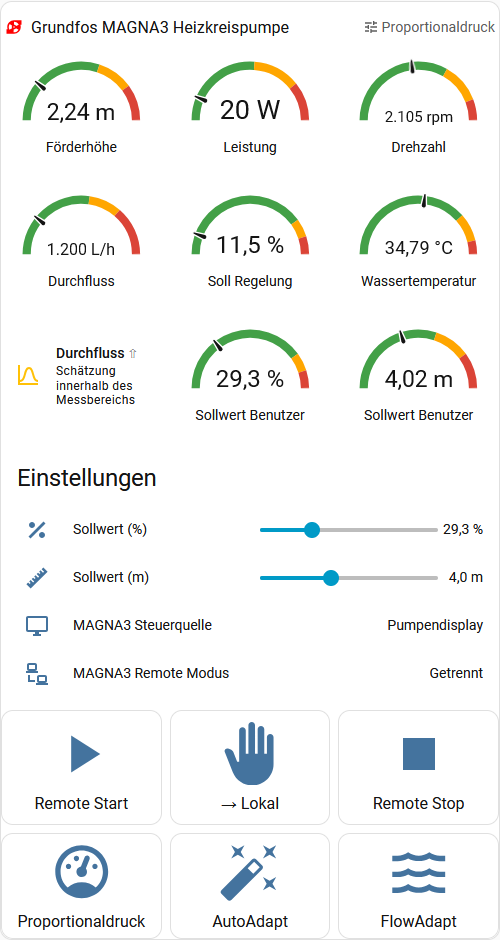
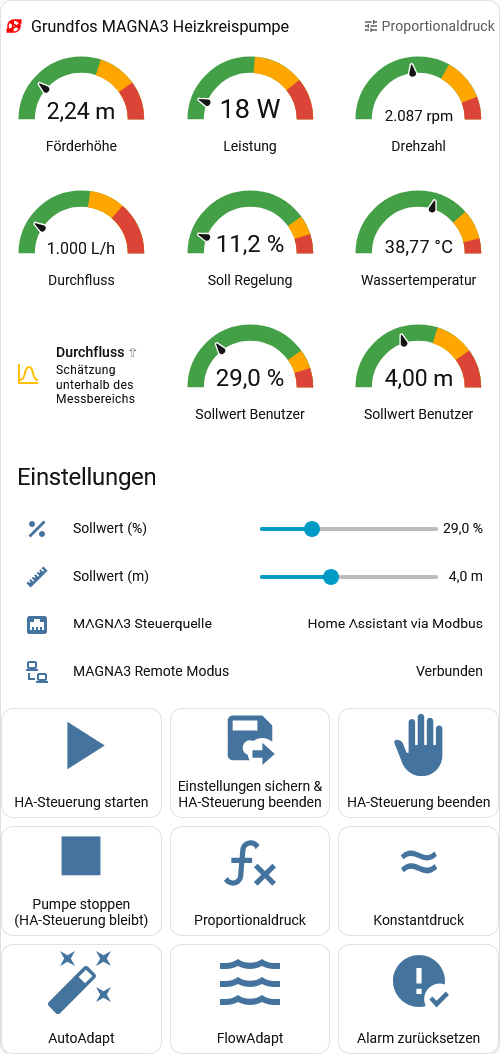
v4.1: CopyToLocal two-step fix + notification cleanup
- magna3_to_local_copy: switched from single atomic write to two-step
  (write 19, wait 500ms, write 16). Single-write proved unreliable on real
  MAGNA3 firmware; two-step gives the pump time to register CopyToLocal
  as armed before the Remote->Local edge
- Control source text "Modbus/TCP" -> "Home Assistant via Modbus/TCP"
- Removed per-click persistent_notification.create from 8 control scripts
  (Start, Stop, Local, Proportional, Constant Pressure, AutoAdapt,
  FlowAdapt, Set Max Flow Limit) - button click is feedback enough
- Added confirmation notification to magna3_reset_alarm
- Kept notification in magna3_to_local_copy (EEPROM save is invisible)
- Renamed automation magna3_watchdog_alarm -> magna3_forced_to_local_detected
  (entity_id change). Old name promised a Modbus watchdog but actually
  fired on every user-initiated local switch. Now triggers on
  binary_sensor.magna3_forced_to_local (Reg 00201 bit 12)
- New automation magna3_warning_notification: fires on Reg 00201 bit 11
  (orange LED), shows warning code from Reg 00206
- Updated dashboard screenshot to reflect new buttons and labels

diff --git a/CHANGELOG.de.md b/CHANGELOG.de.md
@@ -1,5 +1,16 @@
 # Changelog
 
+## v4.1 (2026-05-11)
+
+- **CopyToLocal-Fix funktioniert jetzt wirklich**: `magna3_to_local_copy` umgestellt vom Single-Write (3 → 16) auf die zweistufige Variante (Write 19, 500 ms Pause, Write 16). Reale MAGNA3-Firmware hat CopyToLocal nicht zuverlässig im selben Polling-Zyklus wie die Bit-0-Flanke als aktiv erkannt, dadurch ist das EEPROM-Speichern stillschweigend ausgefallen. Mit der zweistufigen Variante hat die Pumpe Zeit, das vorbereitete Flag wahrzunehmen, bevor die Remote→Local-Flanke kommt
+- Steuerquellen-Text „Modbus/TCP" → „Home Assistant via Modbus/TCP" (klarer in der Entities-Karte)
+- `persistent_notification.create` aus 8 Steuerungs-Scripts entfernt (Start, Stop, → Lokal, Proportionaldruck, Konstantdruck, AutoAdapt, FlowAdapt, Max-Durchfluss setzen) — der Button-Klick ist Feedback genug, vorher wurde das Notification-Drawer mit jedem Klick zugespammt
+- Bestätigungs-Notification zu `magna3_reset_alarm` hinzugefügt (selten benutzt, Nebenwirkungen rechtfertigen Bestätigung)
+- Notification in `magna3_to_local_copy` beibehalten (EEPROM-Speichern wäre sonst unsichtbar)
+- **Automation umbenannt** `magna3_watchdog_alarm` → `magna3_forced_to_local_detected` (entity_id ändert sich; alte Entität wird nach Reload `unavailable`). Der alte Name suggerierte einen Modbus-Watchdog, feuerte aber bei jedem nutzerinitiierten Wechsel auf Lokal. Trigger jetzt `binary_sensor.magna3_zwang_auf_handbetrieb` (Reg 00201 Bit 12) — feuert nur, wenn die Pumpe von etwas anderem als HA in den Lokal-Modus gezwungen wurde (Display, GO App etc.)
+- Neue Automation `magna3_warning_notification`: feuert, wenn das Warnung-Bit (Reg 00201 Bit 11, orange LED) angeht, zeigt Warnung-Code aus Reg 00206
+- Dashboard-Screenshot aktualisiert (neue Buttons Konstantdruck, Alarm zurücksetzen und neue Beschriftungen)
+
 ## v4 (2026-05-10)
 
 - Neues Script `magna3_to_local_copy`: Behebt das Zurückspringen der Pumpe auf den alten Setpoint nach Rückgabe der Steuerung an die Pumpe. Schreibt in einem einzigen Write Reg 00101 = 16 (Local + CopyToLocal), sodass beim Remote→Local-Wechsel der Bus-Setpoint, die Regelungsart und der On/Off-Zustand ins Pumpen-EEPROM kopiert werden (laut Grundfos-Dok 98367081, Reg 00101 Bit 4 „CopyToLocal")

diff --git a/CHANGELOG.md b/CHANGELOG.md
@@ -1,5 +1,16 @@
 # Changelog
 
+## v4.1 (2026-05-11)
+
+- **CopyToLocal fix actually works now**: switched `magna3_to_local_copy` from a single atomic write (3 → 16) to the two-step variant (write 19, wait 500 ms, write 16). Real MAGNA3 firmware did not reliably see CopyToLocal as active during the same poll cycle as the bit-0 fall, so the EEPROM copy silently failed. Two-step gives the pump time to register the armed flag before the Remote→Local edge
+- Control source text "Modbus/TCP" → "Home Assistant via Modbus/TCP" (clearer in the entities card)
+- Removed per-click `persistent_notification.create` from 8 control scripts (Start, Stop, → Local, Proportional, Constant Pressure, AutoAdapt, FlowAdapt, Set Max Flow Limit) — the button click itself is feedback enough, the previous behavior spammed the notification drawer
+- Added confirmation notification to `magna3_reset_alarm` (rarely used, side effects worth confirming)
+- Kept notification in `magna3_to_local_copy` (EEPROM save is otherwise invisible)
+- **Renamed automation** `magna3_watchdog_alarm` → `magna3_forced_to_local_detected` (entity_id change; old entity becomes unavailable after reload). The old name promised a Modbus watchdog but actually fired on every user-initiated local switch. Now triggers on `binary_sensor.magna3_forced_to_local` (Reg 00201 bit 12) — only fires when the pump was forced into local mode by something other than HA (display, GO app, etc.)
+- New automation `magna3_warning_notification`: fires when the pump's warning bit (Reg 00201 bit 11, orange LED) goes on, shows warning code from Reg 00206
+- Updated dashboard screenshot to reflect the new buttons (Constant Pressure, Reset Alarm) and renamed labels
+
 ## v4 (2026-05-10)
 
 - New script `magna3_to_local_copy`: fixes the pump reverting to its old setpoint after returning to local control. Performs a single-write transition (Reg 00101 = 16 = Local + CopyToLocal) so that the bus-set setpoint, control mode, and on/off state are copied into the pump's EEPROM during the Remote→Local edge (per Grundfos doc 98367081, register 00101 bit 4 "CopyToLocal")
